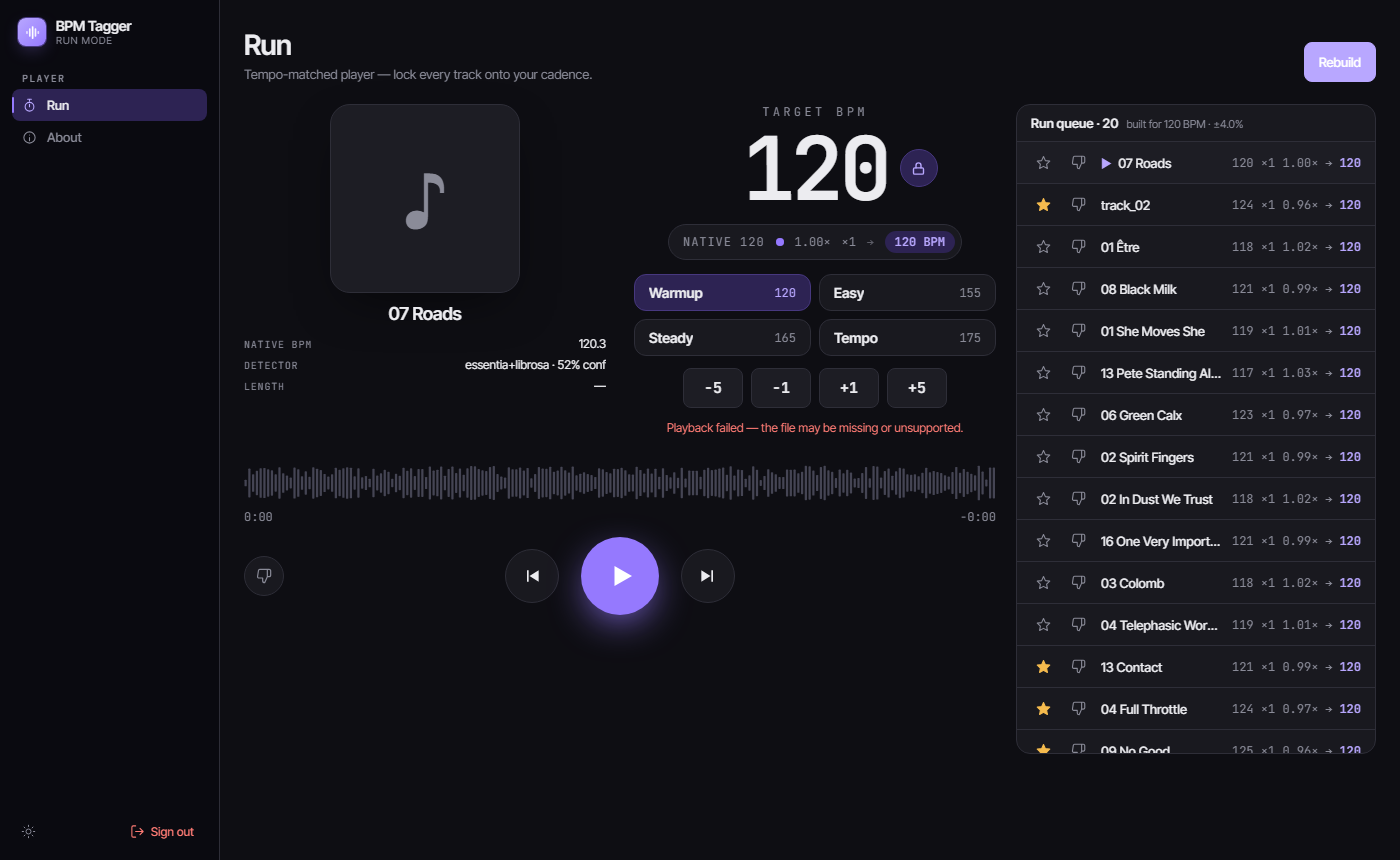
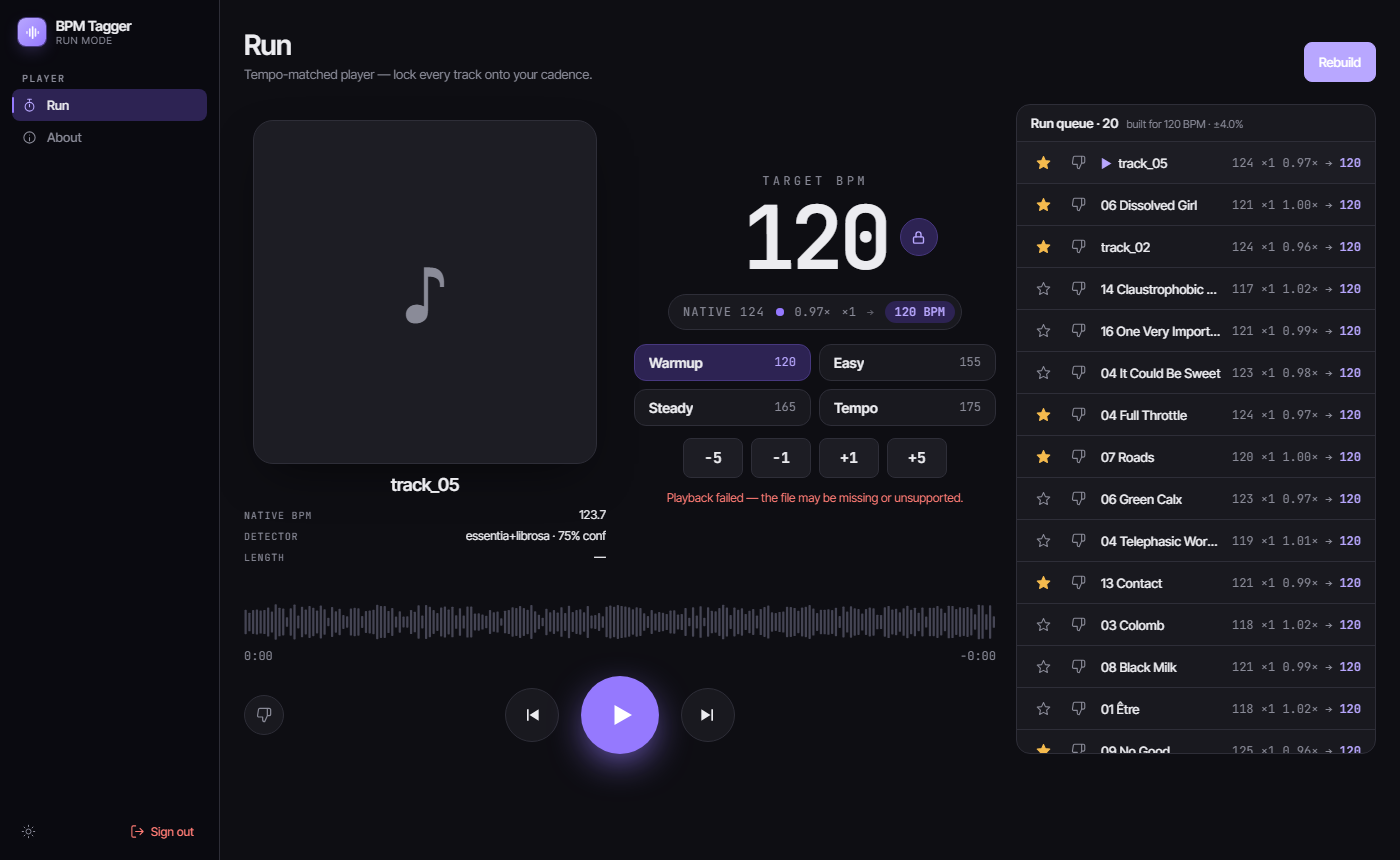
Run: fill the desktop cockpit height — bigger centred cover, bottom transport
The desktop player column now stretches to the run queue's height and uses
it: the cockpit grows to fill the space (flex + align-content/items:center)
so the cover art and the target/presets sit vertically centred, and the
waveform + transport buttons drop to the bottom, flush with the foot of the
queue (they used to float mid-column with dead space below). The desktop
cover clamp is bumped (180->220 / 22vh->40vh / 300->360) and made responsive
(width: min(coverSize, 100%) + aspect-ratio) so a larger size never overflows
its cockpit column; the player-mode cover slot uses its natural height.

Regenerated docs/screenshots/11-player-desktop.png. Mobile and the Cover/Tap
swap are unchanged.

diff --git a/frontend/src/pages/Run.tsx b/frontend/src/pages/Run.tsx
@@ -391,7 +391,7 @@ export default function Run() {
   // sidebar); reserve its height so the mobile layout still fits one screen.
   const bannerReserve = playerMode ? 44 : 0;
   const coverSize = desktop
-    ? "clamp(180px, 22vh, 300px)"
+    ? "clamp(220px, 40vh, 360px)"
     // Reserve = everything below the cover on mobile (title, target with the
     // flanking Rebuild, mode tabs, controls, transport + tight padding). With
     // the header gone and Rebuild flanking the number (no extra row), 605 is the
@@ -452,7 +452,9 @@ export default function Run() {
   // can swap the cover slot for the tap card (nowPlayingDesktop) without touching
   // the title/artist markup; mobile keeps the composed `nowPlaying`.
   const coverImg = current && (
-    <Cover path={current.path} size={240} style={{ width: coverSize, height: coverSize, objectFit: "cover", borderRadius: 20, boxShadow: "0 18px 50px -18px rgba(0,0,0,0.6)" }} />
+    // Width caps at the column so a large clamp never overflows the cockpit
+    // cell; aspect-ratio keeps it square instead of a fixed height.
+    <Cover path={current.path} size={240} style={{ width: `min(${coverSize}, 100%)`, aspectRatio: "1 / 1", height: "auto", objectFit: "cover", borderRadius: 20, boxShadow: "0 18px 50px -18px rgba(0,0,0,0.6)" }} />
   );
   const titleArtist = current && (
     <>
@@ -659,7 +661,7 @@ export default function Run() {
 
   // Waveform + transport controls (dislike / prev / play / next / lyrics).
   const transport = current && (
-    <div className="run-transport" style={{ marginTop: desktop ? 20 : 10, marginBottom: 16 }}>
+    <div className="run-transport" style={{ marginTop: desktop ? 20 : 10, marginBottom: desktop ? 0 : 16 }}>
       <canvas ref={canvasRef} style={{ width: "100%", height: 44, display: "block", cursor: "pointer" }} />
       <div style={{ display: "flex", justifyContent: "space-between", fontFamily: "var(--mono)", fontSize: 12, color: "var(--muted)", marginTop: 4 }}>
         <span>{fmtTime(time)}</span>
@@ -870,7 +872,7 @@ export default function Run() {
           never resizes the column and nothing below shifts; cover is centered,
           the tap card keeps its full column width. Player mode has no tap card,
           so the slot is just the cover's natural height (no reserved gap). */}
-      <div style={{ display: "flex", justifyContent: "center", alignItems: "center", marginBottom: 10, height: playerMode ? coverSize : `max(${coverSize}, 226px)` }}>
+      <div style={{ display: "flex", justifyContent: "center", alignItems: "center", marginBottom: 10, height: playerMode ? "auto" : `max(${coverSize}, 226px)` }}>
         {desktopTapActive ? <div style={{ width: "100%" }}>{tapControl}</div> : coverImg}
       </div>
       {titleArtist}

diff --git a/frontend/src/styles/design-system.css b/frontend/src/styles/design-system.css
@@ -1074,12 +1074,18 @@ a.player-bar-title:hover { color: var(--accent-2); }
 }
 .run-player-col { display: flex; flex-direction: column; min-width: 0; }
 
-/* Track info (cover, details, tap-tempo) | target + presets + steps. */
+/* Track info (cover, details, tap-tempo) | target + presets + steps.
+   The cockpit grows to fill the player column (both columns stretch to the
+   queue's height via the body's align-items:stretch), so the transport below it
+   drops to the bottom, level with the queue. Its content is centered both ways,
+   vertically centering the cover and the target/presets. */
 .run-cockpit {
+  flex: 1;
   display: grid;
   grid-template-columns: minmax(0, 1fr) minmax(0, 1fr);
   gap: 28px;
-  align-items: start;
+  align-items: center;
+  align-content: center;
 }
 .run-cockpit-info { text-align: center; min-width: 0; }
 .run-cockpit-controls { align-self: center; min-width: 0; }

diff --git a/CHANGELOG.md b/CHANGELOG.md
@@ -7,6 +7,7 @@
 - **Session lengths:** player logins stay signed in far longer than admin ones — `RUN_SESSION_DAYS` (default **30**, sliding) — so the running kiosk rarely re-asks for the password. The admin session length (`UI_SESSION_HOURS`, default **24**) is now **actually enforced** as a sliding idle timeout: previously sessions were browser-session cookies and the setting had no effect. Raise `UI_SESSION_HOURS` (e.g. `168`) if 24h logs you out too often. Both are per-role via a custom session interface.
 - **Opt-in anonymous install count:** on first run the UI asks — once — whether to send an anonymous "courtesy ping" so the author can gauge roughly how many installs exist. If you opt in it fires **once per version** (on install and after each update, never on a timer), so upgrades are counted. It carries **only the app version** — no identifier, no library or usage data, no cookies — and the receiver (GoatCounter) does not log IP addresses. Declining sends nothing and changes nothing; you can change your mind anytime under **About**. Headless installs can preset the choice with `INSTALL_PING=true|false`; `INSTALL_PING_URL=""` disables it entirely.
 - **Run page (admin desktop):** the **tap-tempo** card no longer sits permanently in the track-info column — it's tucked behind a **Cover / Tap** toggle. Pick **Tap** and the card swaps into the cover art's slot (reserving the same height, so nothing else on the cockpit moves); **Cover** brings the artwork back. Tap is disabled while a run's tempo lock is stretching playback — you'd be tapping the shifted tempo, not the real BPM — and reverts to the cover when a run starts. Mobile (its own Tap tab) and player mode are unchanged.
+- **Run page (desktop cockpit):** the player column now fills the height of the run queue beside it — the **cover art is larger** and, with the **target BPM and presets, vertically centred**, while the **waveform and transport buttons drop to the bottom**, level with the foot of the queue (previously they floated mid-column with dead space below). The cover caps at its column width so a bigger size never overflows the layout.
 
 ## v2.6.1 — 2026-07-15
 
